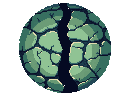
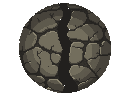
V-157 넷을 다 닫는다 — 방을 네 면으로 닫고 · 초록을 걷어내고 · 주인공에 금테
컷을 열어 찾은 넷을 전부 처리했다.

· **바닥 데칼이 수박이었다.** 초록의 정체는 소품이 아니라 `decal/{crack,pebble,mud}` —
  굽기가 초록으로 왔다. 부정어(no green)는 이미 조리법에 있었으므로 다시 굽지 않고
  **밝기→회갈색 램프로 칠했다.** 최대 채도 0.69→0.26, 초록 픽셀 60~87%→0%.
· **상자가 보라였다.** 「no purple, no violet」이 적힌 조리법으로도 보라가 나왔다.
  같은 방법으로 깊은 갈색→놋쇠 램프. 로브의 보라와 이제 안 겹친다.
· **방이 «검정 위의 바닥 섬»이었다.** `sideWalls()` 로 좌·우·아래에도 돌 면을 세웠다.
  좌우는 바깥이 밝은 결(북벽과 같게), 남쪽은 위에서 본 윗면이라 방 쪽 모서리가 밝다.
· **21 마리 속에서 주인공이 묻혔다.** 여덟 방향 1.4px 실루엣 테. 순백은 스티커처럼
  떠서 발밑 고리와 같은 금빛으로 맞췄다(투명도 0.62). `filtered` 캐시라 공짜에 가깝다.

컷 `tmp/hs_p7_{summon_21,chest,stairs}.png` 로 넷 다 눈으로 확인했다.

diff --git a/hs/main.js b/hs/main.js
@@ -556,7 +556,7 @@ function drawWorld() {
   const rvis = G.rooms.filter((r) => seen(r, WTOP + 6));
   for (const c of cvis) stoneRim(c.x - WT, c.y - WT, c.w + 2 * WT, c.h + 2 * WT);
   for (const r of rvis) stoneRim(r.x - WT, r.y - WTOP, r.w + 2 * WT, r.h + WT + WTOP);
-  for (const r of rvis) northWall(r, WT, WTOP);           // 북쪽 벽면(돌 위) — 복도가 이 다음에 뚫는다
+  for (const r of rvis) { northWall(r, WT, WTOP); sideWalls(r, WT, WTOP); }  // 네 면 다 벽 — 복도가 이 다음에 뚫는다
   for (const c of cvis) floorFill(c.x, c.y, c.w, c.h, "rgba(52,38,26,0.5)");   // 복도 바닥이 벽·북벽을 뚫어 문을 낸다
   for (const r of rvis) {                                 // 방 바닥이 복도를 덮어 복도는 방 사이에만 남는다
     const tint = !r.visited ? "rgba(6,5,11,0.6)" : r.cleared ? "rgba(40,70,52,0.28)" : "rgba(94,66,42,0.26)";
@@ -634,6 +634,28 @@ function northWall(r, WT, WTOP) {
   ctx.fillStyle = g; ctx.fillRect(x0, y0, w, WTOP);
   ctx.fillStyle = "rgba(150,140,122,0.45)"; ctx.fillRect(x0, y0, w, 2);
   ctx.fillStyle = "rgba(0,0,0,0.5)"; ctx.fillRect(x0, r.y - 3, w, 4);
+}
+// ★ V-157 — 북쪽만 벽면이 있어서 방이 «검정 위에 뜬 바닥 섬»으로 보였다. 디아블로의 방은
+//   네 면이 다 벽으로 닫혀 있어 「안에 있다」가 읽힌다. 왼쪽·오른쪽·아래도 돌 면을 세운다.
+//   빛은 위에서 오므로 바깥 모서리가 밝고 방 안쪽으로 갈수록 어두워진다(북벽과 같은 결).
+//   남쪽 벽은 위에서 내려다보면 «윗면»만 보이므로 안쪽이 밝고 바깥이 어둡다 — 반대로 준다.
+function sideWalls(r, WT, WTOP) {
+  const yTop = r.y, hh = r.h;
+  for (const [x0, inner] of [[r.x - WT, r.x], [r.x + r.w, r.x + r.w + WT]]) {
+    const g = ctx.createLinearGradient(x0 < r.x ? x0 : inner, 0, x0 < r.x ? inner : x0, 0);
+    g.addColorStop(0, "rgba(84,76,65,0.96)"); g.addColorStop(0.6, "rgba(46,40,34,0.95)");
+    g.addColorStop(1, "rgba(16,12,10,0.96)");
+    ctx.fillStyle = g; ctx.fillRect(Math.min(x0, inner), yTop, WT, hh);
+  }
+  // 남쪽 — 벽의 윗면. 방 쪽 모서리에 밝은 선을 얹어 「여기서 벽이 시작한다」를 보인다.
+  const sy = r.y + r.h, sx = r.x - WT, sw = r.w + 2 * WT;
+  const gs = ctx.createLinearGradient(0, sy, 0, sy + WT);
+  gs.addColorStop(0, "rgba(74,67,57,0.96)"); gs.addColorStop(1, "rgba(20,15,12,0.96)");
+  ctx.fillStyle = gs; ctx.fillRect(sx, sy, sw, WT);
+  ctx.fillStyle = "rgba(150,140,122,0.38)"; ctx.fillRect(sx, sy, sw, 2);
+  // 좌·우 벽의 바깥 모서리에도 같은 밝은 선 — 벽 두께가 눈에 잡힌다.
+  ctx.fillStyle = "rgba(150,140,122,0.30)";
+  ctx.fillRect(r.x - WT, yTop, 2, hh); ctx.fillRect(r.x + r.w + WT - 2, yTop, 2, hh);
 }
 // 방 벽을 지나는 복도마다 입구에 돌기둥 한 쌍(문틀)을 세운다 — 「방에 들어왔다」가 느껴지게.
 function doorArches(r, WT) {
@@ -788,11 +810,22 @@ function nearPlayer(s) {
   const p = G.player;
   return s.y > p.y - 6 && Math.abs(s.x - p.x) < 46 && s.y - p.y < 74;
 }
+// ★ V-157 — 21 마리 속에서 주인공을 찾는 근거가 «금빛 고리 하나»뿐이었다. 로브의 보라가
+//   해골의 푸른빛과 명도가 비슷해 실루엣이 안 섰다. 사람에게만 얇은 밝은 테를 두른다 —
+//   같은 그림을 여덟 방향으로 1.5px 밀어 흰 실루엣으로 깔고 그 위에 진짜 그림을 얹는다.
+//   `filtered` 가 실루엣 한 장을 캐시하므로 프레임마다 새로 만들지 않는다.
+//   순백은 스티커처럼 떠서, 발밑 고리와 같은 금빛으로 맞춘다(테가 아니라 「빛」으로 읽히게).
+const RIM_OFF = [[-1.4, 0], [1.4, 0], [0, -1.4], [0, 1.4], [-1, -1], [1, -1], [-1, 1], [1, 1]];
+const RIM_FILTER = "brightness(0) invert(1) sepia(1) saturate(4) hue-rotate(-14deg)";
 function drawPlayer() {
   const p = G.player;
   drawShadow(p.x, p.y, 34, "#e8cf52", 3);
-  const st = p.state;
-  if (!drawSprite8(ctx, PLAYER_BASE, actorDir(p), st, frame(p, PLAYER_BASE), p.x, p.y, PLAYER_H, p.hurt > 0 ? "brightness(2.2)" : null))
+  const st = p.state, dir = actorDir(p), fr = frame(p, PLAYER_BASE);
+  ctx.globalAlpha = 0.62;
+  for (const [dx, dy] of RIM_OFF)
+    drawSprite8(ctx, PLAYER_BASE, dir, st, fr, p.x + dx, p.y + dy, PLAYER_H, RIM_FILTER);
+  ctx.globalAlpha = 1;
+  if (!drawSprite8(ctx, PLAYER_BASE, dir, st, fr, p.x, p.y, PLAYER_H, p.hurt > 0 ? "brightness(2.2)" : null))
     fallbackBlob(p.x, p.y, 146, "#cfc7b0");
 }
 function drawActor(s, base) {
